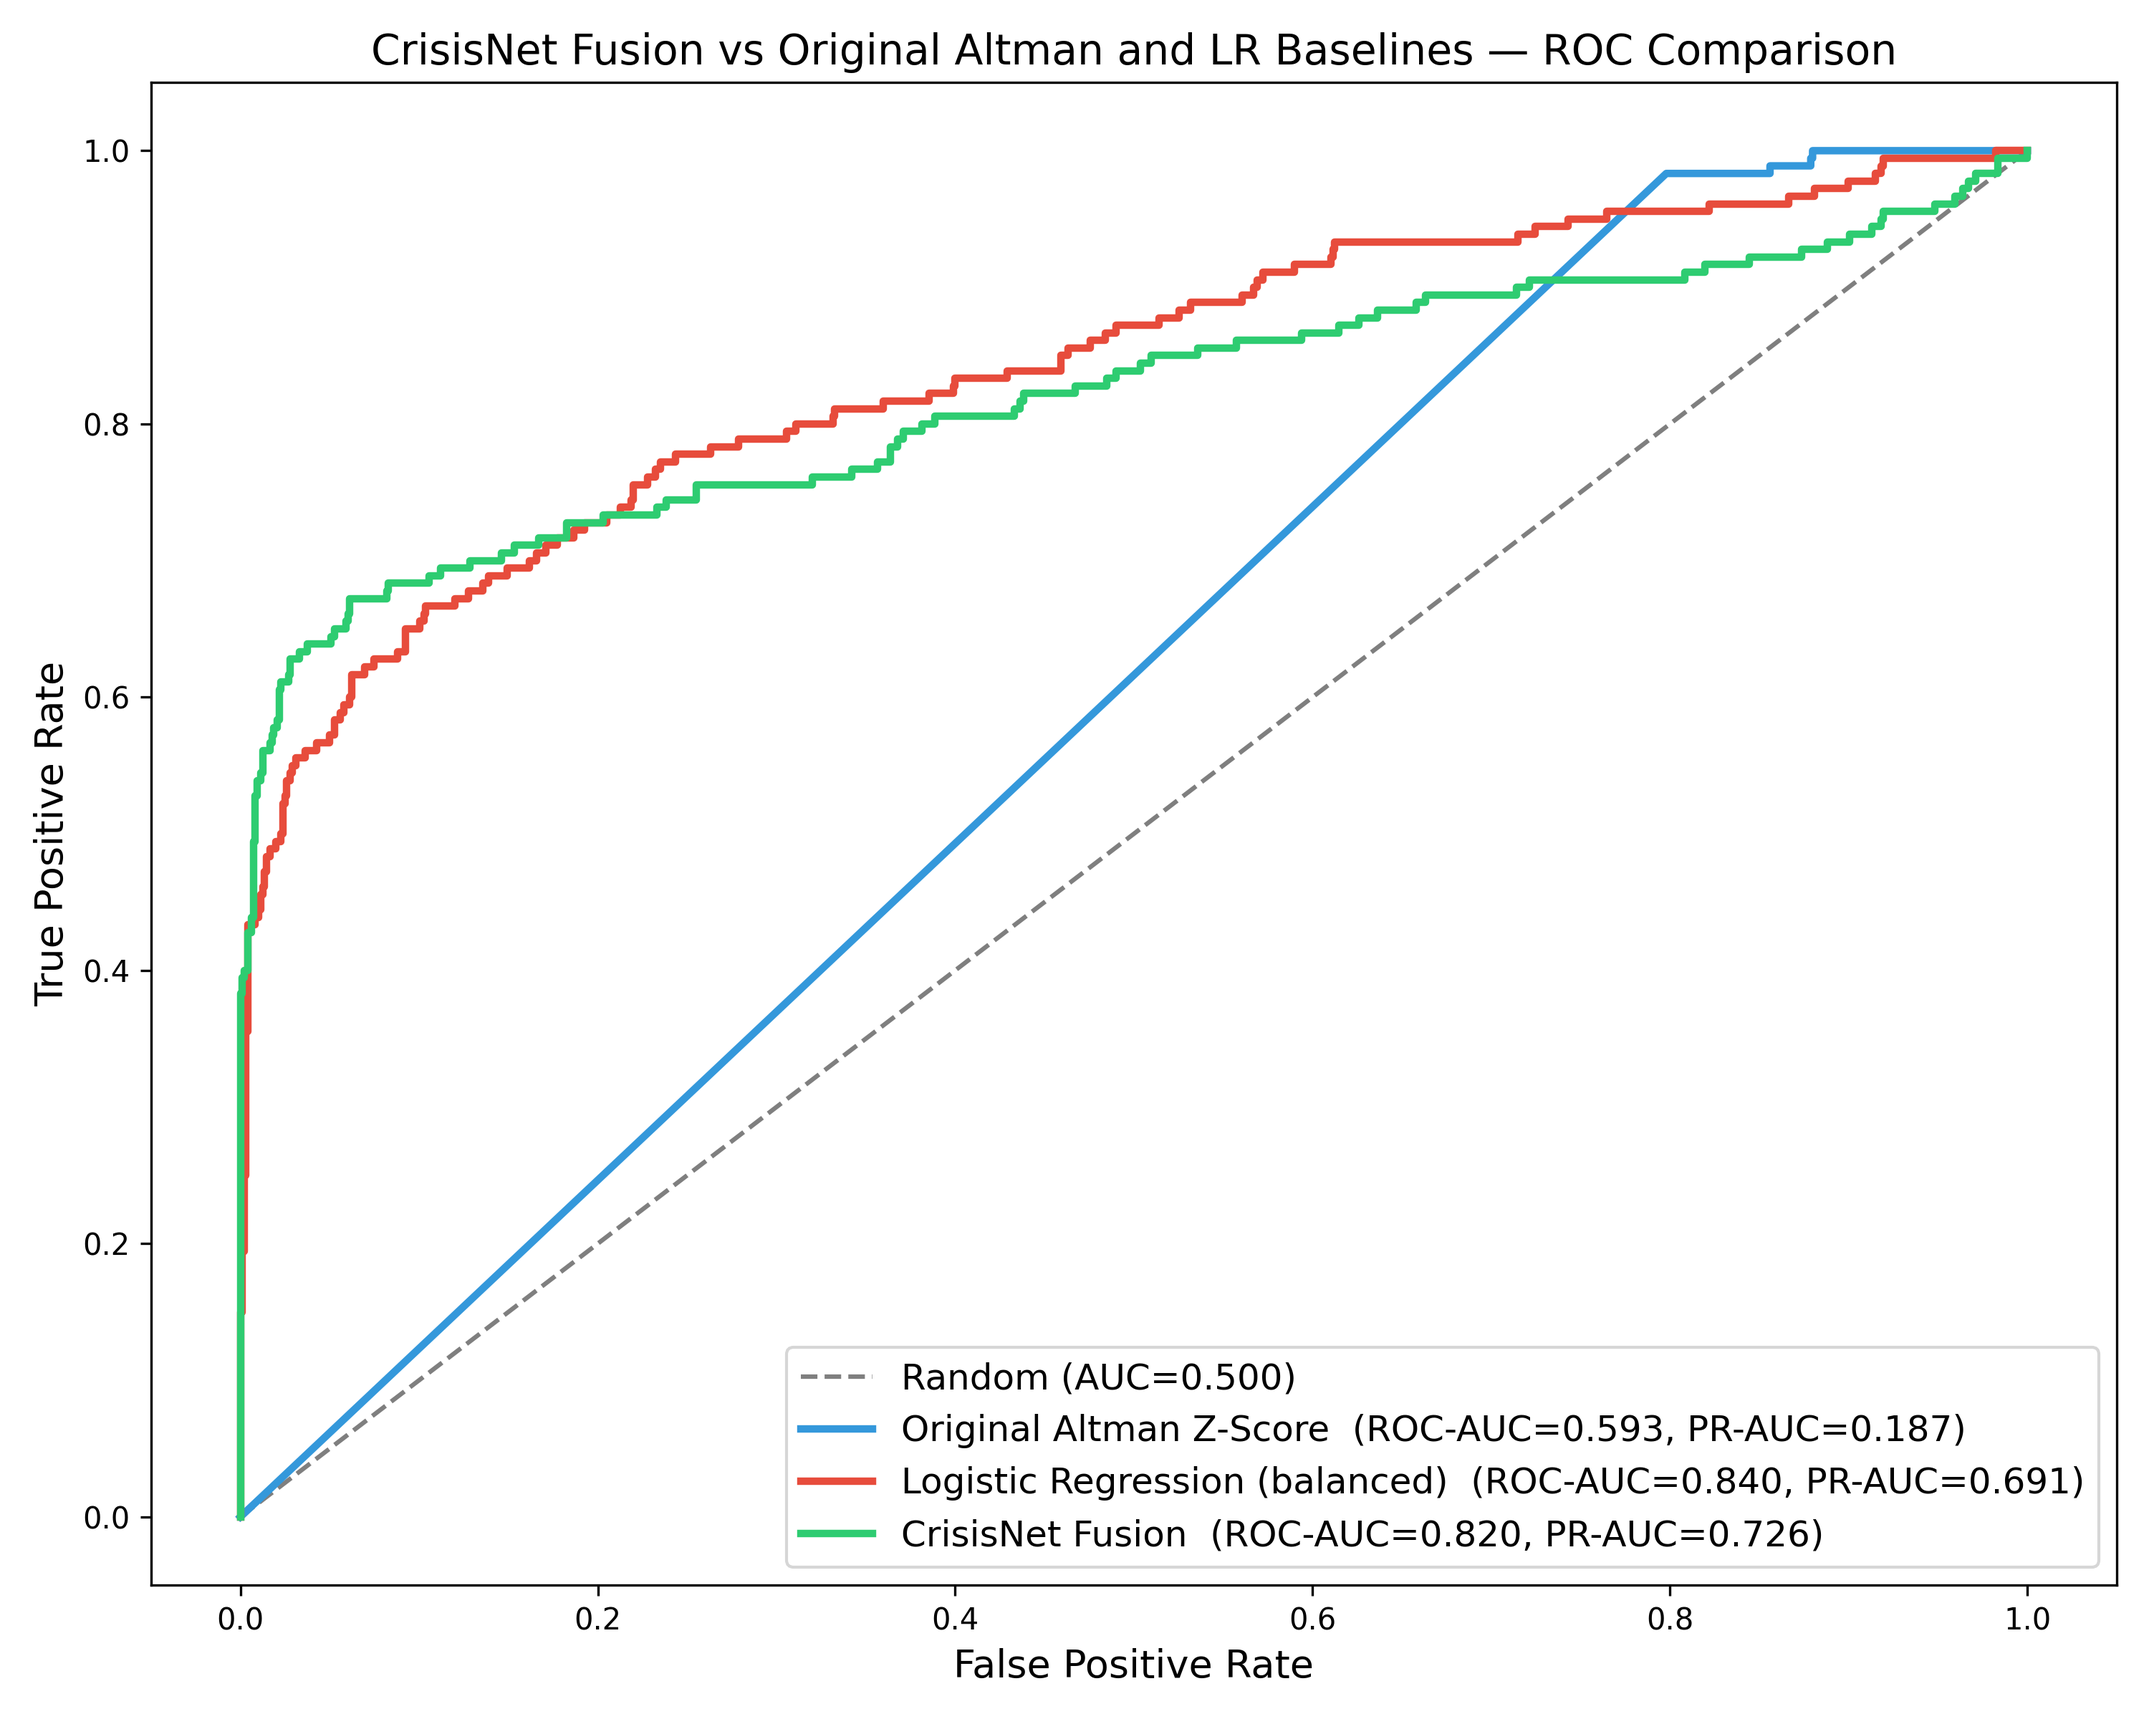
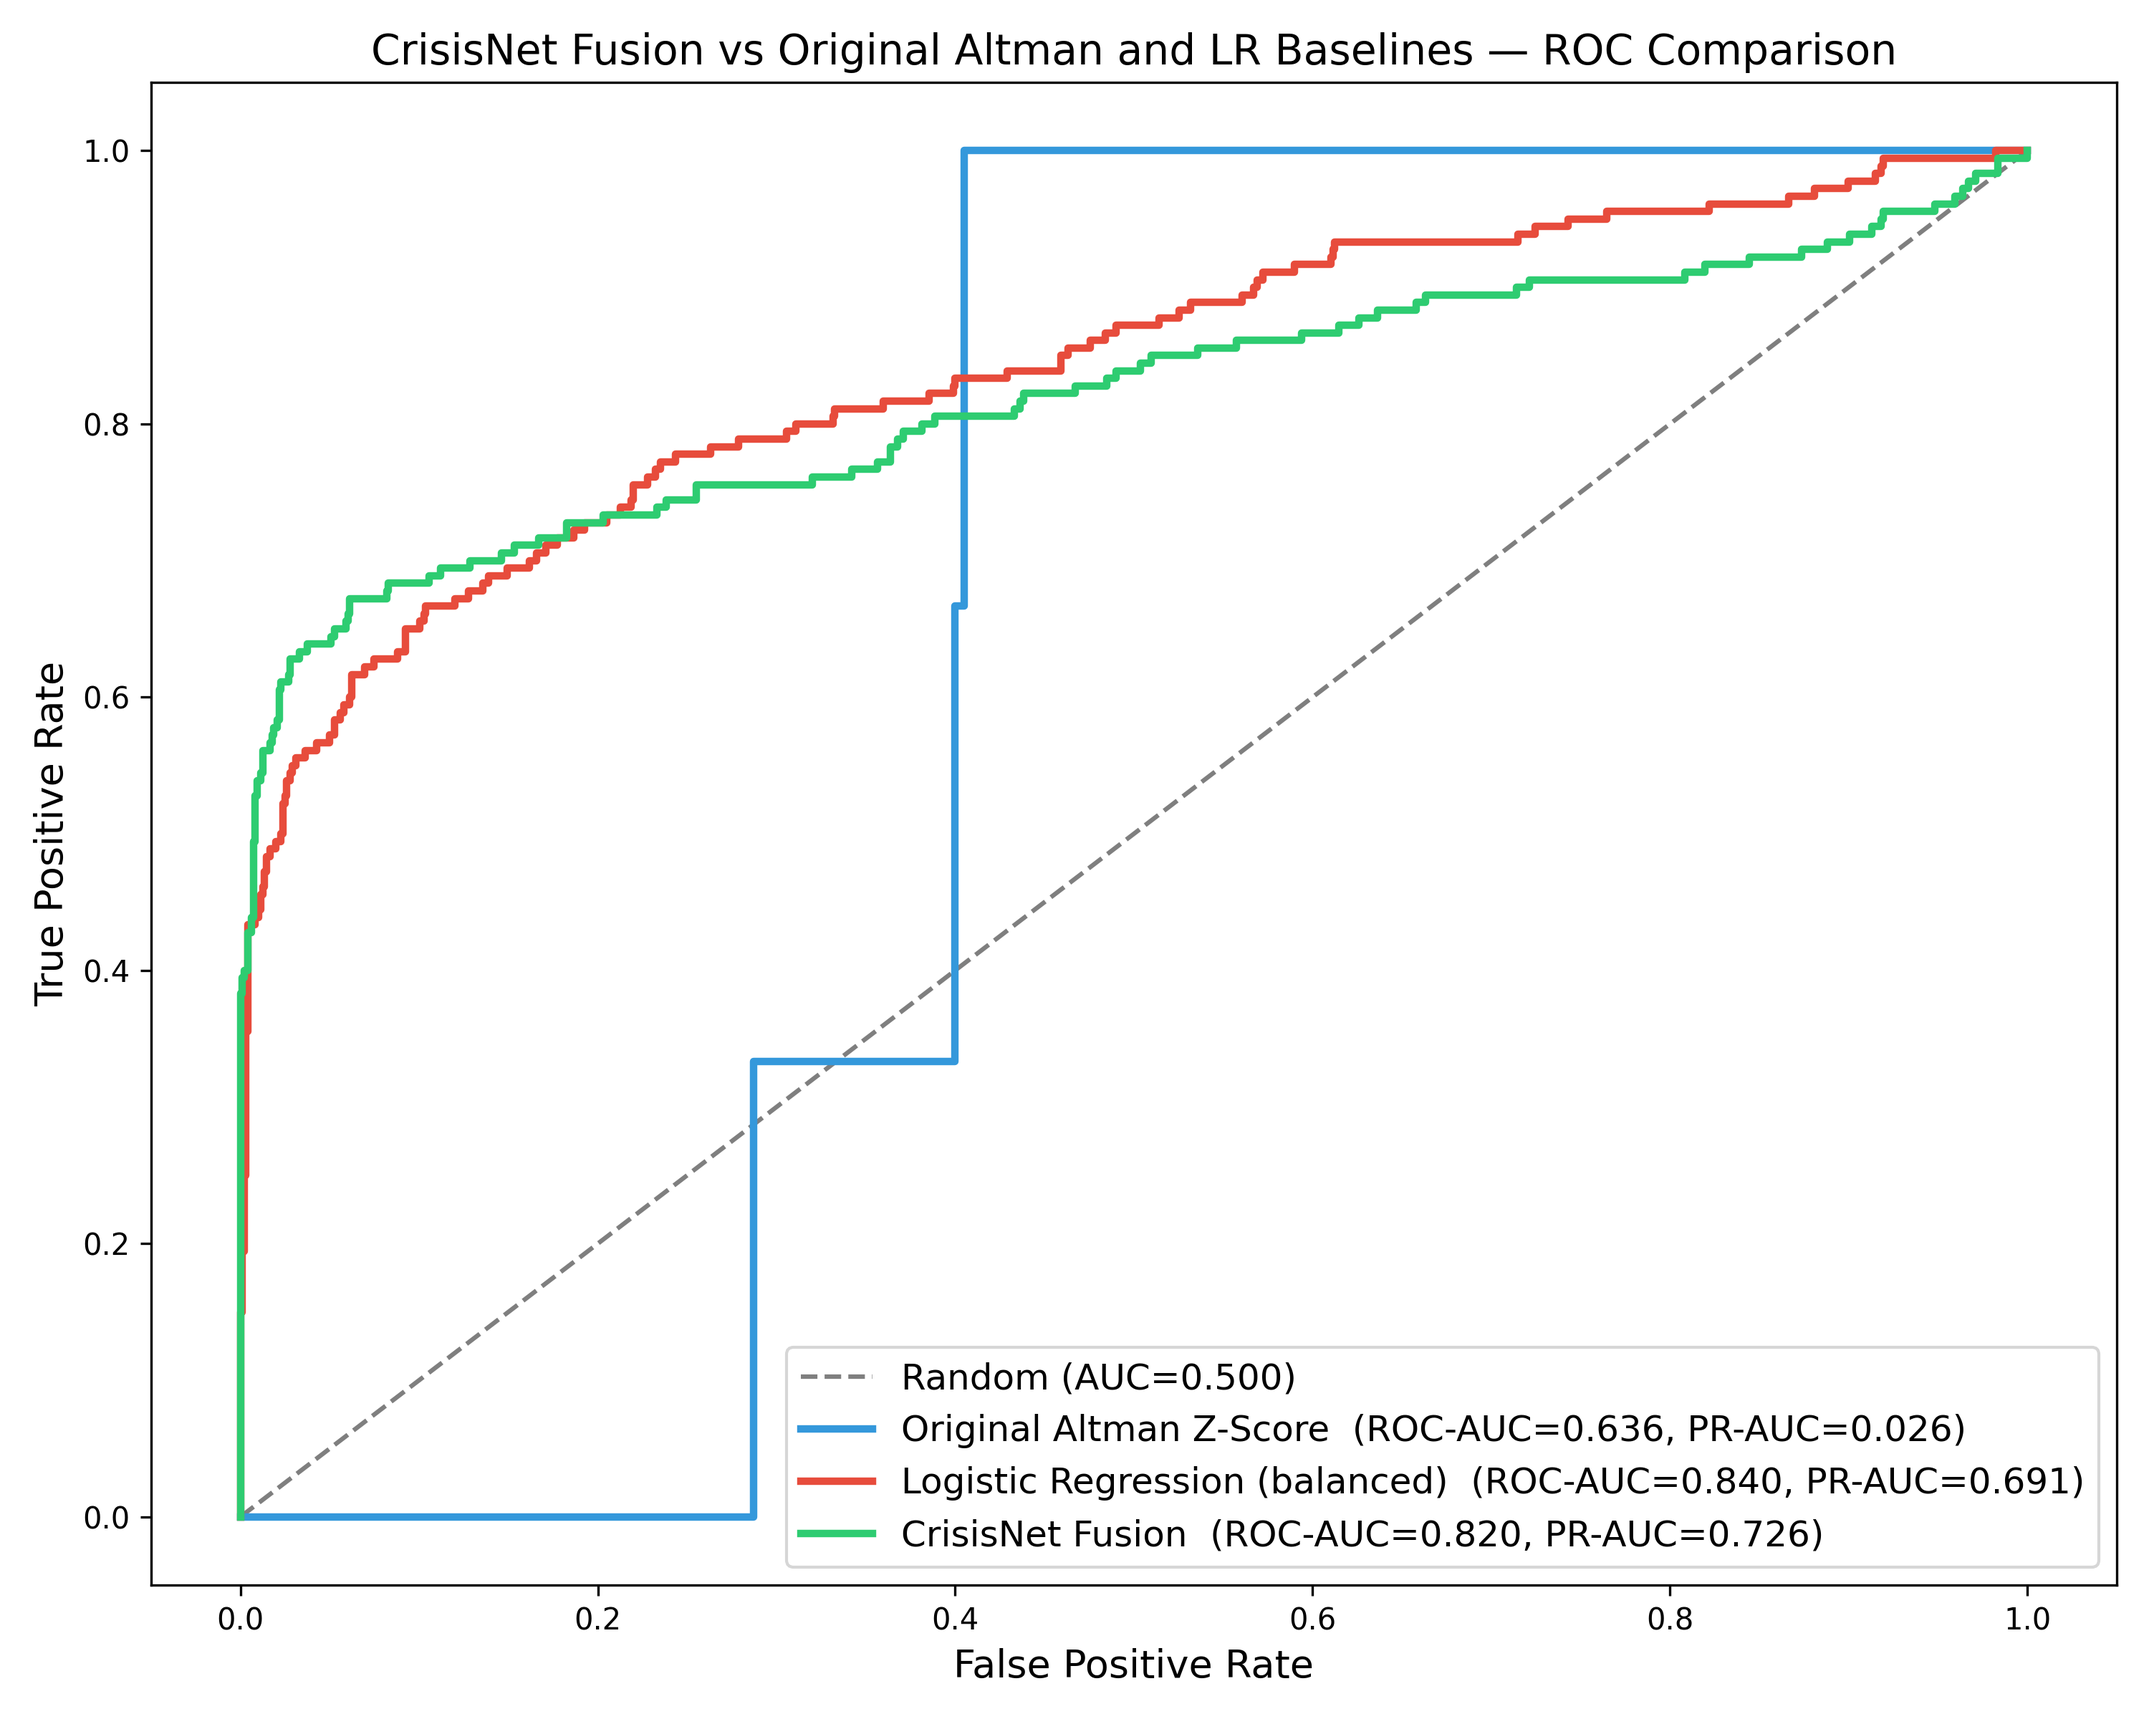
fix: evaluate Altman only on covered rows

diff --git a/Module_D/ablation_study.py b/Module_D/ablation_study.py
@@ -73,6 +73,11 @@ def zscore_to_prob(z):
 ZSCORE_5 = ['altman_z', 'X1_wc_ta', 'X2_re_ta', 'X3_ebit_ta', 'X4_mcap_tl', 'X5_rev_ta']
 # Filter to those that actually exist in feat_cols
 ZSCORE_5 = [c for c in ZSCORE_5 if c in feat_cols]
+altman_train_mask = (train['altman_z'].fillna(0) != 0).values if 'altman_z' in train.columns else np.zeros(len(train), dtype=bool)
+altman_test_mask = (test['altman_z'].fillna(0) != 0).values if 'altman_z' in test.columns else np.zeros(len(test), dtype=bool)
+print(f"Original Altman coverage: train={int(altman_train_mask.sum())}/{len(train)}, "
+      f"test={int(altman_test_mask.sum())}/{len(test)} "
+      f"(test positives={int(y_test[altman_test_mask].sum())})")
 
 configs = {
     'zscore_only':     None,   # special case — sigmoid, no ML
@@ -132,13 +137,20 @@ print(f"\n  {'Config':<24s} {'n_feat':>6s}  {'CV AUC':>8s}  {'Test AUC':>9s}  {'
 print("  " + "-" * 85)
 
 for config_name, cols in configs.items():
+    eval_mask = np.ones(len(test), dtype=bool)
     if config_name == 'zscore_only':
-        # Pure sigmoid — NOTE: altman_z is all-zero (XBRL data unavailable).
-        probs  = zscore_to_prob(test['altman_z'].values if 'altman_z' in test.columns
-                                else np.full(len(test), 2.4))
+        # Pure sigmoid; evaluate only rows with restored nonzero Altman coverage.
+        eval_mask = altman_test_mask
+        probs  = zscore_to_prob(test['altman_z'].values)
         preds  = (probs > 0.5).astype(int)
         cv_val = 'N/A'
         n_feat = 1
+    elif config_name == 'zscore_5factors' and altman_train_mask.sum() == 0:
+        eval_mask = np.zeros(len(test), dtype=bool)
+        probs  = np.full(len(test), np.nan)
+        preds  = np.zeros(len(test), dtype=int)
+        cv_val = 'N/A'
+        n_feat = len(cols)
     else:
         cols   = [c for c in cols if c in train.columns]
         n_feat = len(cols)
@@ -155,12 +167,15 @@ for config_name, cols in configs.items():
         probs = m_final.predict_proba(test[cols].values)[:, 1]
         preds = (probs > ABLATION_THRESHOLD).astype(int)
 
-    if y_test.sum() > 0 and y_test.sum() < len(y_test):
-        test_auc = round(roc_auc_score(y_test, probs), 4)
-        pr_auc   = round(average_precision_score(y_test, probs), 4)
-        brier    = round(brier_score_loss(y_test, probs), 4)
-        f2_val   = round(fbeta_score(y_test, preds, beta=2), 4)
-        rec_val  = round(recall_score(y_test, preds), 4)
+    y_eval = y_test[eval_mask]
+    p_eval = probs[eval_mask]
+    d_eval = preds[eval_mask]
+    if len(y_eval) > 0 and y_eval.sum() > 0 and y_eval.sum() < len(y_eval) and not np.isnan(p_eval).all():
+        test_auc = round(roc_auc_score(y_eval, p_eval), 4)
+        pr_auc   = round(average_precision_score(y_eval, p_eval), 4)
+        brier    = round(brier_score_loss(y_eval, p_eval), 4)
+        f2_val   = round(fbeta_score(y_eval, d_eval, beta=2), 4)
+        rec_val  = round(recall_score(y_eval, d_eval), 4)
     else:
         test_auc, pr_auc, brier, f2_val, rec_val = [float('nan')] * 5
 
@@ -173,6 +188,7 @@ for config_name, cols in configs.items():
         'f2_score':   f2_val,
         'recall':     rec_val,
         'brier':      brier,
+        'n_eval':     int(len(y_eval)),
         'expected':   expected[config_name],
         'rq':         rq_map[config_name],
     }

diff --git a/Module_D/train_fusion.py b/Module_D/train_fusion.py
@@ -277,11 +277,14 @@ lr.fit(Xtr_sc, y_train)
 lr_probs  = lr.predict_proba(Xte_sc)[:, 1]
 lr_preds  = (lr_probs > 0.5).astype(int)
 
-if 'altman_z' in test.columns and (test['altman_z'].fillna(0) != 0).sum() > 0:
+altman_eval_mask = (test['altman_z'].fillna(0) != 0).values if 'altman_z' in test.columns else np.zeros(len(test), dtype=bool)
+if altman_eval_mask.sum() > 0:
     altman_probs = zscore_to_prob(test['altman_z'].values)
+    print(f"      Original Altman coverage: {int(altman_eval_mask.sum())}/{len(test)} test rows "
+          f"(positives={int(y_test[altman_eval_mask].sum())})")
 else:
     altman_probs = np.full(len(test), y_train.mean())
-    print("      WARNING: original Altman Z unavailable/zeroed; baseline falls back to train prevalence")
+    print("      WARNING: original Altman Z unavailable/zeroed; baseline excluded")
 altman_preds = (altman_probs > 0.5).astype(int)
 
 fusion_probs = model.predict_proba(test[feat_cols].values)[:, 1]
@@ -289,27 +292,30 @@ fusion_preds = (fusion_probs > opt_threshold).astype(int)
 
 results = {}
 comparisons = [
-    ('Original Altman Z-Score',        altman_probs, altman_preds, '#3498db'),
-    ('Logistic Regression (balanced)', lr_probs,     lr_preds,     '#e74c3c'),
-    ('CrisisNet Fusion',               fusion_probs, fusion_preds, '#2ecc71'),
+    ('Original Altman Z-Score',        altman_probs, altman_preds, '#3498db', altman_eval_mask),
+    ('Logistic Regression (balanced)', lr_probs,     lr_preds,     '#e74c3c', np.ones(len(test), dtype=bool)),
+    ('CrisisNet Fusion',               fusion_probs, fusion_preds, '#2ecc71', np.ones(len(test), dtype=bool)),
 ]
 
 fig, ax = plt.subplots(figsize=(10, 8))
 ax.plot([0, 1], [0, 1], 'k--', alpha=0.5, label='Random (AUC=0.500)')
 
-for name, probs, preds, color in comparisons:
-    if y_test.sum() > 0 and y_test.sum() < len(y_test):
-        auc      = roc_auc_score(y_test, probs)
-        prauc    = average_precision_score(y_test, probs)
-        brier    = brier_score_loss(y_test, probs)
-        fpr, tpr, _ = roc_curve(y_test, probs)
+for name, probs, preds, color, eval_mask in comparisons:
+    y_eval = y_test[eval_mask]
+    probs_eval = probs[eval_mask]
+    if len(y_eval) > 0 and y_eval.sum() > 0 and y_eval.sum() < len(y_eval):
+        auc      = roc_auc_score(y_eval, probs_eval)
+        prauc    = average_precision_score(y_eval, probs_eval)
+        brier    = brier_score_loss(y_eval, probs_eval)
+        fpr, tpr, _ = roc_curve(y_eval, probs_eval)
         ax.plot(fpr, tpr, color=color, linewidth=2.5,
                 label=f'{name}  (ROC-AUC={auc:.3f}, PR-AUC={prauc:.3f})')
         results[name] = {'ROC_AUC': round(auc, 4), 'PR_AUC': round(prauc, 4),
-                         'Brier': round(brier, 4)}
-        print(f"  {name:<38s} ROC-AUC={auc:.4f}  PR-AUC={prauc:.4f}  Brier={brier:.4f}")
+                         'Brier': round(brier, 4), 'n_eval': int(len(y_eval))}
+        print(f"  {name:<38s} ROC-AUC={auc:.4f}  PR-AUC={prauc:.4f}  "
+              f"Brier={brier:.4f}  n={len(y_eval)}")
     else:
-        print(f"  {name}: not enough test labels for ROC")
+        print(f"  {name}: not enough covered test labels for ROC (n={len(y_eval)}, pos={int(y_eval.sum())})")
 
 ax.set_xlabel('False Positive Rate', fontsize=13)
 ax.set_ylabel('True Positive Rate', fontsize=13)

diff --git a/res.md b/res.md
@@ -30,19 +30,24 @@ Key NLP features retained/used by the final model include `nlp_tenk_score_lag2q`
 | Test recall | 0.7000 |
 | Test precision | 0.4884 |
 | Test Brier score | 0.0766 |
-| Original Altman Z ROC-AUC | 0.5932 |
-| Original Altman Z PR-AUC | 0.1867 |
+| Original Altman Z ROC-AUC | 0.6359 on 198 covered test rows |
+| Original Altman Z PR-AUC | 0.0264 on 198 covered test rows |
 | LR baseline ROC-AUC | 0.8402 |
 | LR baseline PR-AUC | 0.6912 |
 
 The original Altman Z-score path is restored in `build_x_fused.py`: when Module A exports zeroed Altman columns, fusion recomputes the original 1968 Altman score and X1-X5 components from raw quarterly financial statements under `crisisnet-data/Module_1/market_data/financials` or `crisisnet-data/Module_A/market_data/financials`. This restored nonzero Altman values for 198 rows in the current run.
 
+Important coverage caveat: Altman coverage is `0/610` train rows and `198/1145` test rows, with only 3 positives in the covered test subset. Therefore:
+- `zscore_only` is evaluated only on covered rows, not on zero-filled missing rows.
+- `zscore_5factors` is marked unavailable because there is no covered train data for fitting.
+- The `zscore_only` recall of 1.0000 is not strong evidence; it is based on only 3 covered positives and has very poor F2/PR-AUC.
+
 ## Corrected Ablation
 
 | Configuration | Features | CV AUC | ROC-AUC | PR-AUC | F2 | Recall | Brier |
 |---|---:|---:|---:|---:|---:|---:|---:|
-| zscore_only | 1 | N/A | 0.5932 | 0.1867 | 0.4929 | 1.0000 | 0.5346 |
-| zscore_5factors | 6 | 0.5000 | 0.5000 | 0.1572 | 0.4826 | 1.0000 | 0.1328 |
+| zscore_only | 1 | N/A | 0.6359 | 0.0264 | 0.0877 | 1.0000 | 0.3744 |
+| zscore_5factors | 6 | N/A | N/A | N/A | N/A | N/A | N/A |
 | module_a_only | 187 | 0.8801 | 0.7890 | 0.6943 | 0.5967 | 0.6889 | 0.1173 |
 | a_plus_b | 257 | 0.8965 | 0.8060 | 0.7107 | 0.6175 | 0.6889 | 0.0935 |
 | a_plus_c | 209 | 0.8949 | 0.8086 | 0.7072 | 0.6244 | 0.6944 | 0.0930 |
